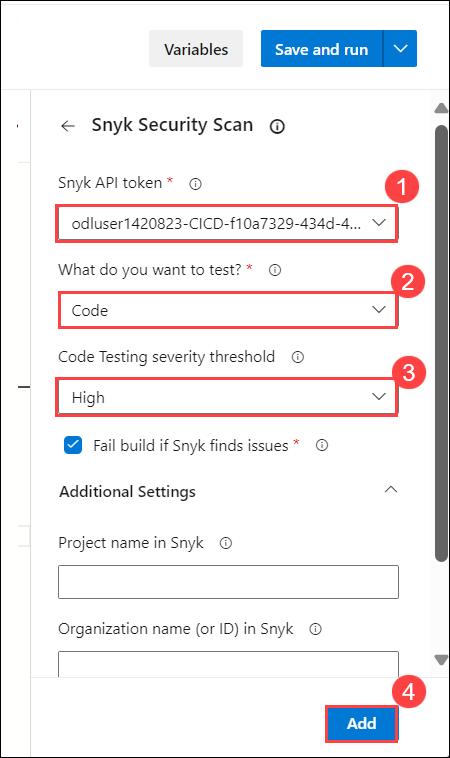
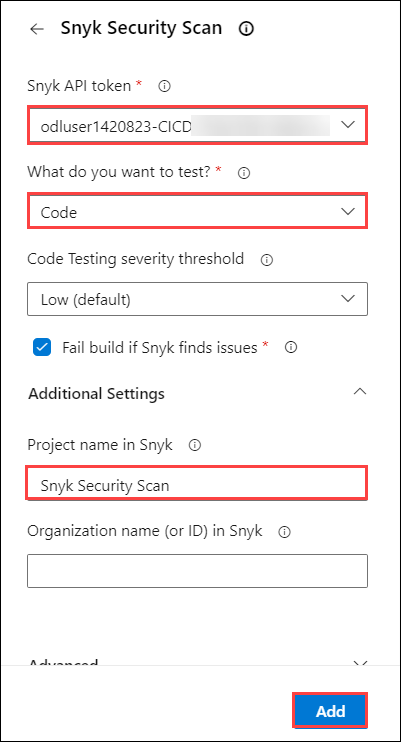
Updated

diff --git a/Instructions/Labs/Module 5 - Defender for DevOps .md b/Instructions/Labs/Module 5 - Defender for DevOps .md
@@ -609,12 +609,13 @@ To secure your pipeline with GitHub Advanced Security (GHAS) and Microsoft Defen
 
 ## Task 7: Integrating non-MS security scan solutions with MDC 
 
-Integrating non-Microsoft security scan solutions with Microsoft Defender for Cloud (MDC) can provide a more comprehensive security posture. 
+Integrating non-Microsoft security scan solutions with Microsoft Defender for Cloud (MDC) enhances your security posture comprehensively. 
 
-To identify security issues in your pipeline with a straightforward approach, you can follow these basic steps to incorporate a security scan into your Azure DevOps pipeline. This focuses on integrating a basic security scan with minimal configuration:
+To incorporate a security scan into your Azure DevOps pipeline with minimal configuration, follow these steps for a basic integration using **Snyk**:
 
 ### Security Scan with Snyk
-**Snyk** is a popular tool for vulnerability scanning in open source dependencies. Here’s how to integrate Snyk into an Azure DevOps pipeline to identify security issues:
+**Snyk** is a well-known tool for vulnerability scanning in open source dependencies. Here’s how to integrate Snyk into your Azure DevOps pipeline to identify security issues:
+
 
 1. **Go to [Snyk's website](https://snyk.io/).**
 
@@ -732,16 +733,34 @@ To identify security issues in your pipeline with a straightforward approach, yo
 
 1. Under **Snyk Security Scan**, complete the following steps:
 
-   - For **Snyk API token (1)**, select the API from the dropdown menu.
-   - For **What do you want to test (2)**, choose **Code**.
-   - For **Code Testing Severity Threshold (3)**, select **High**.
-   - Click **Add (4)**.
+   - For **Snyk API token**, select the API from the dropdown menu.
+   - For **What do you want to test**, choose **Code**.
+   - For **Project name in Synk**, enter **Synk Security Scan**.
+   - Click **Add**.
 
     ![](images/83.png)
 
 1. Click **Save and Run** then click **Run** to start the Build Pipeline process.
 
    ![](images/84.png)
+
+1. You are prompted with **Permissions Needed**, as well as an orange bar saying :
+
+    ```
+    This pipeline needs permission to access a resource before this run can continue
+    ```
+
+1. Click on **View**.
+
+   ![](images/86.png)
+
+1. From the **Waiting for Review** pane, click **Permit**.
+
+   ![](images/87.png)
+
+1. Validate the message in the **Permit popup** window, and confirm by clicking **Permit**.
+
+   ![](images/88.png)
 
 9. Wait for the build pipeline to complete. After running the pipeline, review the results of the Snyk scan in the pipeline logs. Snyk will report any vulnerabilities found.
 
